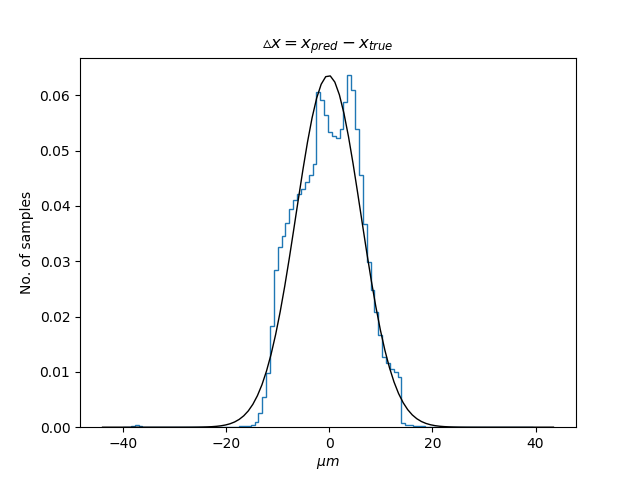
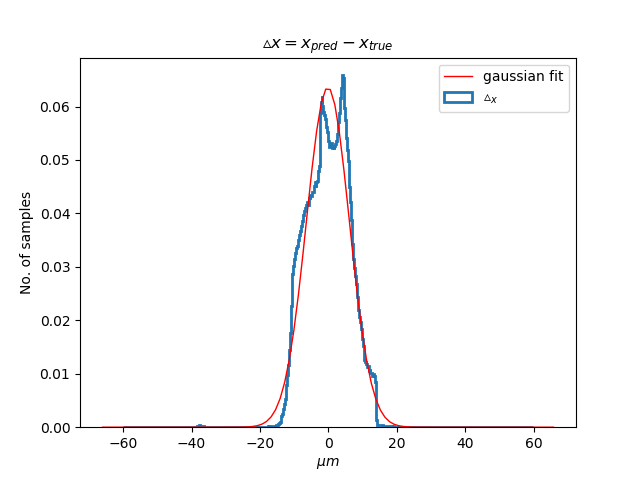
new plots

diff --git a/code/find_hit_position.py b/code/find_hit_position.py
@@ -121,14 +121,14 @@ model = Model(inputs=[inputs,angles],
  # Display a model summary
 model.summary()
 
-#history = model.load_weights("checkpoints/cp_%s.ckpt"%(img_ext))
+history = model.load_weights("checkpoints/cp_%s.ckpt"%(img_ext))
 
 # Compile the model
 model.compile(loss=loss_function,
               optimizer=optimizer,
               metrics=['mse','mse']
               )
-
+'''
 callbacks = [
 ModelCheckpoint(filepath="checkpoints/cp_%s.ckpt"%(img_ext),
                 save_weights_only=True,
@@ -142,7 +142,7 @@ history = model.fit([pix_train, angles_train], [x_train, y_train],
                 callbacks=callbacks,
                 validation_split=validation_split)
 
-
+'''
 # Generate generalization metrics
 print("training time ",time.clock()-train_time_s)
 
@@ -182,7 +182,7 @@ plt.close()
 mean_x, sigma_x = norm.fit(residuals_x)
 print("mean_x = %0.2f, sigma_x = %0.2f"%(mean_x,sigma_x))
 
-plt.hist(residuals_x, bins=np.arange(-40,40,0.75), histtype='step', density=True)
+plt.hist(residuals_x, bins=np.arange(-60,60,0.25), histtype='step', density=True,linewidth=2, label=r'$\vartriangle_x$')
 xmin, xmax = plt.xlim()
 x = np.linspace(xmin, xmax, 100)
 p = norm.pdf(x, mean_x, sigma_x)
@@ -201,14 +201,15 @@ at2 = AnchoredText(r'$RMS_{\vartriangle_x}=%.2f$' % (RMS_x),
 #at.patch.set_boxstyle("round,pad=0.,rounding_size=0.2")
 plt.add_artist(at,at2)
 '''
-plt.plot(x, p, 'k', linewidth=1)
+plt.plot(x, p, 'k', linewidth=1,color='red',label='gaussian fit')
+plt.legend()
 plt.savefig("plots/residuals_x_%s.png"%(img_ext))
 plt.close()
 
 mean_y, sigma_y = norm.fit(residuals_y)
 print("mean_y = %0.2f, sigma_y = %0.2f"%(mean_y,sigma_y))
 
-plt.hist(residuals_y, bins=np.arange(-40,40,0.75), histtype='step', density=True)
+plt.hist(residuals_y, bins=np.arange(-60,60,0.25), histtype='step', density=True,linewidth=2, label=r'$\vartriangle_y$')
 xmin, xmax = plt.xlim()
 x = np.linspace(xmin, xmax, 100)
 p = norm.pdf(x, mean_y, sigma_y)
@@ -227,7 +228,7 @@ at2 = AnchoredText(r'$RMS_{\vartriangle_y}=%.2f$' % (RMS_y),
 #at.patch.set_boxstyle("round,pad=0.,rounding_size=0.2")
 plt.add_artist(at,at2)
 '''
-plt.plot(x, p, 'k', linewidth=1)
+plt.plot(x, p, 'k', linewidth=1, color='red',label='gaussian fit')
 plt.savefig("plots/residuals_y_%s.png"%(img_ext))
 plt.close()
 
